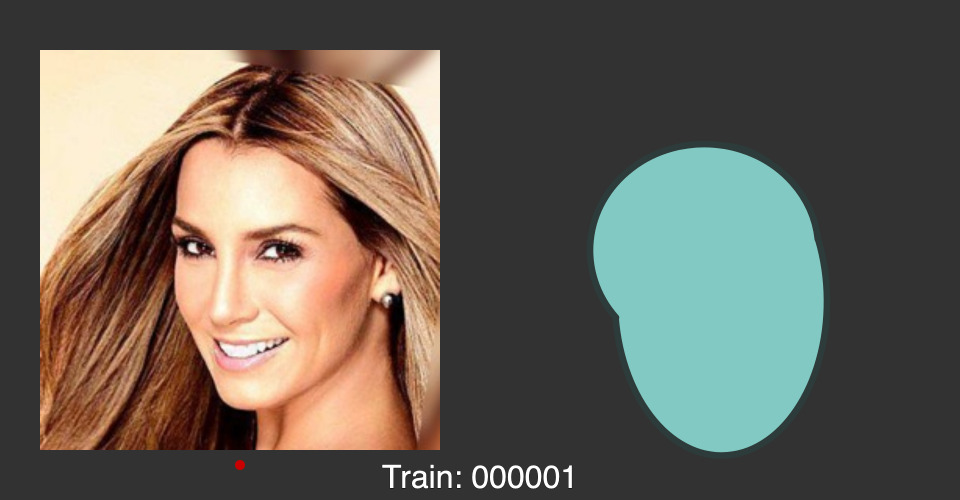
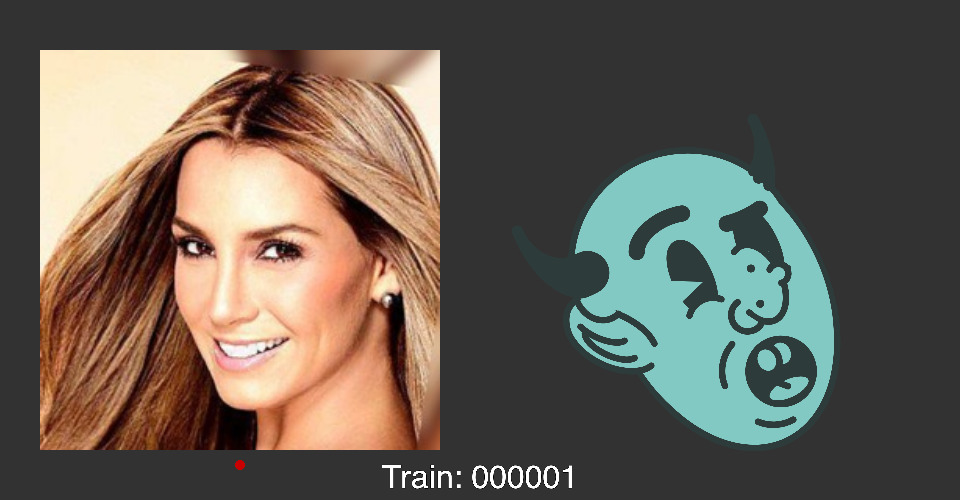
see read.me

Changed region(s): [[0.5938, 0.27, 0.875, 0.9], [0.5, 0.93, 0.5938, 0.99], [0.4062, 0.93, 0.4688, 0.99]]

diff --git a/face.js b/face.js
@@ -47,6 +47,9 @@ function Face() {
   //MINE
   this.eyeType = 2
   this.mouthType = 2
+  this.earType = 2
+  this.noseType = 2
+  this.extraType = 2
 
   //my code
   const stroke_color = [95, 52, 8];
@@ -88,6 +91,9 @@ function Face() {
 
     angleMode(DEGREES);
     
+
+    /*FACE SETUP***/
+
     strokeWeight(.4);
     stroke(DarkAqua_const);
     fill(DirtyAqua_const);
@@ -97,6 +103,11 @@ function Face() {
     ellipse(-1,-3.1,this.faceX+1,this.faceY/1.4) // head top, varies on facial direction
     noStroke();
     ellipse(0,0,this.faceX-.25,this.faceY-1) // face colour to hide the head top outline.
+    pop();
+
+    push();
+    angleMode(RADIANS);
+    scale(0.3)
 
     /*EYES*********************/
 
@@ -264,6 +275,7 @@ else if (this.mouthType == 3){ //shocked, sad or scared mouth
 
   
 }
+
 else if (this.mouthType == 4){ // buck tooth mouth
 stroke(DarkAqua_const);
 fill(DarkAqua_const);
@@ -282,11 +294,237 @@ noFill();
 arc(0.5,5, 5,5,3.2,4.3) // top cheek
 arc(0.75,6,5,5,1.5,2.4) //  bottom cheek
 
+}
+/*NOSE**********/
 
-
-
+if (this.noseType == 1){ // basic ball nose
+  stroke(DarkAqua_const);
+  fill(DirtyAqua_const)
+  strokeWeight(.4);
+  
+  arc(2.5,1,3,3,4,3) // round ball nose
 
 }
+
+else if (this.noseType == 2){ // pinocchio nose
+  stroke(DarkAqua_const);
+  fill(DirtyAqua_const);
+  strokeWeight(.4);
+
+  rect(1,0.5,8.5,1.6,5,5,5) // nose bridge/ main
+  line(7,0.3,8,-0.5) // stem 1 base
+  line(7.3,0.1,7,-0.5) // stem one branch
+  ellipse(8.5,-0.5,1,0.75) // stem 1 leaf
+  line(5.5,1.5,7,3) // stem 2 base
+  line(6.8,2.7,7.4,2.6) // stem 2 branch
+  noStroke()
+  rect(0.5,0.7,2,1.2,5,5,5) // gets rid of the rect join 
+ 
+}
+
+else if (this.noseType == 3){ // plastic surgery nose
+stroke(DarkAqua_const);
+  noFill()
+  strokeWeight(.4);
+
+  arc(3.3,-2,3,5,1.75,3.3) // nose bridge curve
+  fill(DirtyAqua_const)
+  arc(3.2,1.45,2.2,2.2,4.5,2,OPEN) // nose knob
+  noFill()
+  arc(2.2,2.5,1,1.2,4,6) // nose under curve
+}
+
+else if (this.noseType == 4){ // pimple nose
+  stroke(DarkAqua_const);
+  fill(DirtyAqua_const)
+  strokeWeight(.4);
+  
+  arc(2.5,0,3,5,4.5,2.3,OPEN) // nose birdge and knob
+  arc(1.1,1.5,2,2,1,4.5) // nostril
+  arc(3.9,0,1.2,1.2,4,8,OPEN) // pimple
+  ellipse(2.5,-1,0.1) // blackhead top
+  ellipse(2.1,1.2,0.1) // blackhead bottom
+
+}
+
+
+/*EARS******/
+
+if (this.earType == 1){ // ear with earring
+  stroke(DarkAqua_const);
+    fill(DirtyAqua_const);
+    strokeWeight(.4);
+    
+    arc(-6.6, 0, 3, 5, 1,5.5,OPEN); // ear 
+    arc(-6.6, 0, 1.5, 3, 3,5,OPEN); // ear line
+
+    noFill()
+
+    arc(-6.8, 3, 1.5, 2.5, 5,4,OPEN); // earrings hoopmain
+   
+    fill(LightBeige_const);
+    ellipse(-6.8,4.75,0.75) // earring jewel
+   
+}
+
+else if (this.earType == 4){ // headphones
+    stroke(DarkAqua_const);
+    fill(DirtyAqua_const);
+    strokeWeight(.4);
+    ellipse(-5.75,0.5,6) // headphone ear cushion
+    fill(DarkAqua_const);
+    ellipse(-6.5,0.5,6) // headphone shell
+    fill(DirtyAqua_const);
+    rect(-8,-3.5,3,1,2,2,2,2) // headphone band connection
+
+    noFill();
+    strokeWeight(1.5)
+    arc(-4,-4.5,5,9,3,4.75) //headphpne band
+    strokeWeight(.4)
+
+    // these lines are to make it seem that the headphone band is going around the head
+    stroke(DirtyAqua_const); 
+    arc(-3,-4.9,5,8,3,4.75);
+    strokeWeight(.5)
+   line(-4,-8.5,-3,-8.5)
+    
+}
+
+else if (this.earType == 3){ // big hearing ear
+    fill(DirtyAqua_const);
+  
+    noStroke()
+    arc(-7, 0, 4, 6, 0.1,0,OPEN); // ear fill to hide face lines
+
+    stroke(DarkAqua_const);
+    strokeWeight(.4);
+    arc(-6.5, 3, 2.5, 3, 6.2,3.5,OPEN); // ear lobe
+    arc(-7, 0, 4, 6, 1.7,6,OPEN); //outer  ear top
+
+    noFill()
+    arc(-7, 0, 2.5, 4.5, 2.3,6.5,OPEN); // ear big line
+     arc(-6.5, 0.5, 1.5, 1.5, 2,6,OPEN); // small inside ear lobe curve
+    arc(-6.75, 1.5, 2, 1.5, 6,3,OPEN); // ear smaller line
+}
+
+else if (this.earType == 2){
+   stroke(DarkAqua_const);
+    fill(DirtyAqua_const);
+    strokeWeight(.4);
+    
+    push();
+    fill(DirtyAqua_const);
+    rotate(-0.7)
+    arc(-5,-5,3.2,5.8,8,7.5,OPEN) // ear 
+    pop();
+
+    fill(DirtyAqua_const)
+    arc(-8,-2,2.6,3.5,2.75,4.75) // ear point
+   
+    arc(-6.5,-3.6,3,3.5,1.3,3.2) //ear dip to mask curve
+
+    push();
+    noFill()
+    rotate(-0.7)
+    arc(-5.2,-5,1.5,3.5,1.7,4.7,) // ear inside line 1
+    arc(-4.5,-6,1.5,3.5,1.7,4.25,) // ear inside line 2
+    pop();
+
+
+/*EXTRA************/
+
+}
+
+if (this.extraType == 2){ // devil horns
+  stroke(DarkAqua_const);
+  
+   strokeWeight(.7);
+
+   fill(DarkAqua_const)
+   rect(-8.2,-6,2.5,2,3,3,3,3) // left circulir base and chip
+   arc(-7,-8.5,5,9,1.5,3.2 ,OPEN) //left horn outline bottom
+    noFill()
+   arc(-7,-9,5,6,1.5,3.2) //left horn outline top 
+
+
+   fill(DarkAqua_const)
+   arc(4,-8.5,5,9,6.2,1.11 ,OPEN) //right  horn outline bottom
+    noFill()
+   arc(4,-9,5,6,6.2,1.15) //right  horn outline top 
+   arc(4,-8.4,5,6,6.2,1.11) //right  horn outline fill
+}
+
+else if (this.extraType == 1){ // holes
+   stroke(DarkAqua_const);
+   fill(DirtyAqua_const);
+   strokeWeight(.4);
+
+   /**BIG HOLES */
+
+   ellipse(1.5,-7,1.5,3) // hole 1 outline
+   fill(DarkAqua_const);
+   ellipse(1.25,-7,.5,2) // hole 1 dark
+
+   fill(DirtyAqua_const);
+   ellipse(-3.25,5,1,2.5) // hole 2 outline
+   fill(DarkAqua_const);
+   ellipse(-3.5,5,0.25,1.5) // hole 2 dark
+
+   fill(DirtyAqua_const);
+   ellipse(-4,-7,.75,2) // hole 3 outline
+   fill(DarkAqua_const);
+   ellipse(-4.2,-7,0.1,1) // hole 3 dark
+
+   fill(DirtyAqua_const);
+   ellipse(1.2,-2,.75,2) // hole 4 outline
+   fill(DarkAqua_const);
+   ellipse(1,-2,0.1,1) // hole 4 dark
+
+   fill(DirtyAqua_const);
+   ellipse(-4,-2,1.25,2.5) // hole 5 outline
+   fill(DarkAqua_const);
+   ellipse(-4.2,-2,0.25,1.5) // hole 5 dark
+
+   /**SMALL HOLES */
+
+   ellipse(2,8.2,0.2,0.5) // bottom right under mouth
+   ellipse(5.5,2.7,0.2,0.5) // middle right above mouth
+   ellipse(-1,1,0.2,0.5) // middle middle underneath eye
+   ellipse(-1,-7,0.2,0.5) // middle top above eyebrow
+   ellipse(4,-6.5,0.2,0.5) // top right above eyebrow
+   ellipse(5.5,-2,0.2,0.5) // middle right below eye
+   ellipse(-5,3.5,0.2,0.5) // middle left below ear
+   ellipse(-5,-4.5,0.2,0.5) // middle left below ear
+}
+
+else if (this.extraType == 4){ // scars
+stroke(DarkAqua_const);
+   noFill()
+   strokeWeight(.3);
+   arc(-2,-7,3,3.5,3,4.5) //scar 1 main line
+   line(-3,-7.1,-4,-7.1) // bottom scar 1 short line
+    line(-2.75,-7.6,-3.9,-7.8) // scar 1 middle line
+   line(-2.4,-8.1,-3.4,-8.5) // scar 1 top line
+
+   arc(1.5,-5.75, 5,5,4.75,6) // scar 2 main line
+   line(3,-6.75,4,-7) // scar 2 bottm line
+   line(2.25,-7.5,3,-8) // scar 2 top line
+   ellipse(3,-7.25,0.01) // scar 2 middle dot
+  
+}
+
+else if (this.extraType == 3){ // arrow in head
+stroke(DarkAqua_const);
+fill(DirtyAqua_const);
+strokeWeight(.7)
+   line(1.5,-7,8,-7) // arrow stick
+   strokeWeight(.4)
+   quad(7,-7,8,-8,9,-8,8,-7); // arrow feath top       
+   quad(7,-7,8,-6,9,-6,8,-7); // arrow feather bottom
+   noFill();
+   strokeWeight(.4)
+   arc(0.4,-6.75,2,2,5,0.5) // head indenttom 
+}  
 
 
     /* Perhaps yu could make the main ellipse of the head have another ellipse without a stroke in front. 
@@ -358,11 +596,12 @@ arc(0.75,6,5,5,1.5,2.4) //  bottom cheek
    // fill(0)
    //ellipse(0,0, 0.5,0.5) center point
    //rect(-2,-2,4.5,4) sizing debug 
-   pop()
+   pop();
   }
 
   // example of a function *inside* the face object.
   // this draws a segment, and do_loop will connect the ends if true
+  angleMode(DEGREES);
   this.draw_segment = function(segment, do_loop) {
     for(let i=0; i<segment.length; i++) {
         let px = segment[i][0];
@@ -385,9 +624,9 @@ arc(0.75,6,5,5,1.5,2.4) //  bottom cheek
   this.setProperties = function(settings) {
     this.eyeType = int(map(settings[0], 0, 100, 1, 4));
     this.mouthType = int(map(settings[1], 0, 100, 1, 4));
-    // this.noseType = map(settings[2], 0, 100, 0.5, 8);
-    // this.earType = int(map(settings[0], 0, 100, 1, 2));
-    // this.extraType = int(map(settings[0], 0, 100, 1, 2));
+     this.noseType = int(map(settings[2], 0, 100, 1,4));
+    this.earType = int(map(settings[3], 0, 100, 1, 4));
+    this.extraType = int(map(settings[4], 0, 100, 1, 4));
   }
 
   /* get internal properties as list of numbers 0-100 */
@@ -395,8 +634,8 @@ arc(0.75,6,5,5,1.5,2.4) //  bottom cheek
     let settings = new Array(3);
     settings[0] = map(this.eyeType, 1, 2, 0, 100);
     settings[1] = map(this.mouthType, 1, 2, 0, 100);
-    // settings[2] = map(this.noseType, 0.5, 8, 0, 100);
-    // settings[3] = map(this.earType, 1, 2, 0, 100);
+     settings[2] = map(this.noseType, 1, 2, 0, 100);
+    settings[3] = map(this.earType, 1, 2, 0, 100);
     // settings[4] = map(this.extraType, 1, 2, 0, 100);
     return settings;
   }

diff --git a/README.md b/README.md
@@ -7,3 +7,8 @@
 Impleneted my facial base of my previous porject into this set of code. Got the vairbless i need working as well as colour.
 
 Next step is to create the eyes outh and nose, then futher on down the line I need to work on how create a system in which the face changes the directions it faces depending on said photo.
+
+
+18/05
+
+I have successfully implemented my code into my design!! The arcs were very different at first and were all jumbled. This is because I needed to change my angle mode to radians instead of degrees. Unfortunately, my face seems to be rotating too much to be mapped probably as shown above. I need to figure this out first, then I can work on implementing positions for the eyes, mouth, nose,ears and extras.
